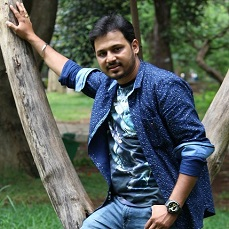
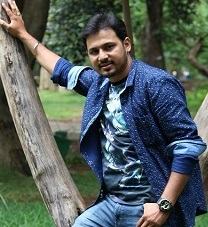
min sec removal, bride n groom pic size change

diff --git a/NayanWedsRasmita.html b/NayanWedsRasmita.html
@@ -49,8 +49,6 @@
             <div id="clockdiv" class="col-lg-4">
                 <label class="col-lg-3" ><label class="timer" id="timerDay"></label><br/> Days  </label>
                 <label class="col-lg-3" ><label class="timer" id="timerHour"></label><br/> Hours </label>
-                <label class="col-lg-3" ><label class="timer" id="timerMinute"></label><br/> Minutes </label>
-                <label class="col-lg-3" ><label class="timer" id="timerSecond"></label><br/> Seconds </label>
             </div>
             <div class="col-lg-4"></div>
 
@@ -63,13 +61,14 @@
             <div class="story">
                 <p>8 years of relationship is going to be socially approved on 19 <sup> th </sup> of Nov 2017.</p>
             </div>
-        </div>        
+        </div> 
         <div class="col-sm-4 col-sm-pull-4 col-xs-6">
+            <div class="bridepic"></div>
+        </div>       
+        <div class="col-sm-4 col-xs-6">
             <div class="groompic"></div>
         </div>
-        <div class="col-sm-4 col-xs-6">
-            <div class="bridepic"></div>
-        </div>
+        
     </div>
 
 
@@ -157,23 +156,33 @@
             Program Details
         </div>
         <div class="col-lg-6 col-xs-6"><div class="program-icon Sangeet"></div>
+            <b>Mehendi: </b><br/> 
+            On 17 <sup>th</sup> Nov 2017 @ 6 pm <br/>
+            At Berhampur
+        </div>
+        <div class="col-lg-6 col-xs-6"><div class="program-icon Sangeet"></div>
             <b>Sangeet / Mehendi: </b><br/> 
-            On 18 <sup>th</sup> Nov 2017 @ 8 pm <br/>
+            On 18 <sup>th</sup> Nov 2017 @ 12:30 pm <br/>
             At Berhampur
         </div> 
         <div class="col-lg-6 col-xs-6"><div class="program-icon Wedding"></div>
+            <b>Dinner:</b><br/> 
+            On 19 <sup>th</sup> Nov 2017 @7:00 pm <br/>
+            At Shree Palace, Sadanand Bihar, Berhampur
+        </div> 
+        <div class="col-lg-6 col-xs-6"><div class="program-icon Wedding"></div>
             <b>Wedding:</b><br/> 
-            On 19 <sup>th</sup> Nov 2017 @12:30 am <br/>
-            At Berhampur
+            On 19 <sup>th</sup> Nov 2017 @8:30 pm <br/>
+            Berhampur
         </div>    
         <div class="col-lg-6 col-xs-6"><div class=" program-icon Barati"></div>
             <b>Batabarana:</b><br/> 
-            On 19 <sup>th</sup> Nov 2017 @11:50 pm <br/>
+            On 19 <sup>th</sup> Nov 2017 @10 pm <br/>
             At Berhampur
         </div>        
         <div class="col-lg-6 col-xs-6"><div class="program-icon Hastaganthi"></div>
             <b>Hastaganthi:</b><br/> 
-            On 19 <sup>th</sup> Nov 2017 @1am <br/>
+            On 20 <sup>th</sup> Nov 2017 @1am <br/>
             At Berhampur
         </div>
         <div class="col-lg-6 col-xs-6"><div class="program-icon Reception"></div>
@@ -184,7 +193,7 @@
         <div class="col-lg-6 col-xs-6"><div class="program-icon Reception"></div>
             <b>Reception:</b><br/> 
             On 21 <sup>st</sup> Nov 2017 @7:30pm<br/>
-            At Berhampur
+            At Hotel Moti, Berhampur
         </div>
     </div>
     <div class="col-xs-12 col-lg-12" style="text-align: center">

diff --git a/script.js b/script.js
@@ -4,8 +4,6 @@
             var t = getTimeRemaining(endtime);
             document.getElementById('timerDay').innerHTML = t.days;
             document.getElementById('timerHour').innerHTML = t.hours;
-            document.getElementById('timerMinute').innerHTML = t.minutes;
-            document.getElementById('timerSecond').innerHTML = t.seconds;
 
             if(t.total<=0){
                 clearInterval(timeinterval);
@@ -14,15 +12,11 @@
 
         function getTimeRemaining(endtime){
             var t = Date.parse(endtime) - Date.parse(new Date());
-            var seconds = Math.floor( (t/1000) % 60 );
-            var minutes = Math.floor( (t/1000/60) % 60 );
             var hours = Math.floor( (t/(1000*60*60)) % 24 );
             var days = Math.floor( t/(1000*60*60*24) );
             return {
                 'total': t,
                 'days': days,
-                'hours': hours,
-                'minutes': minutes,
-                'seconds': seconds
+                'hours': hours
             };
         }
